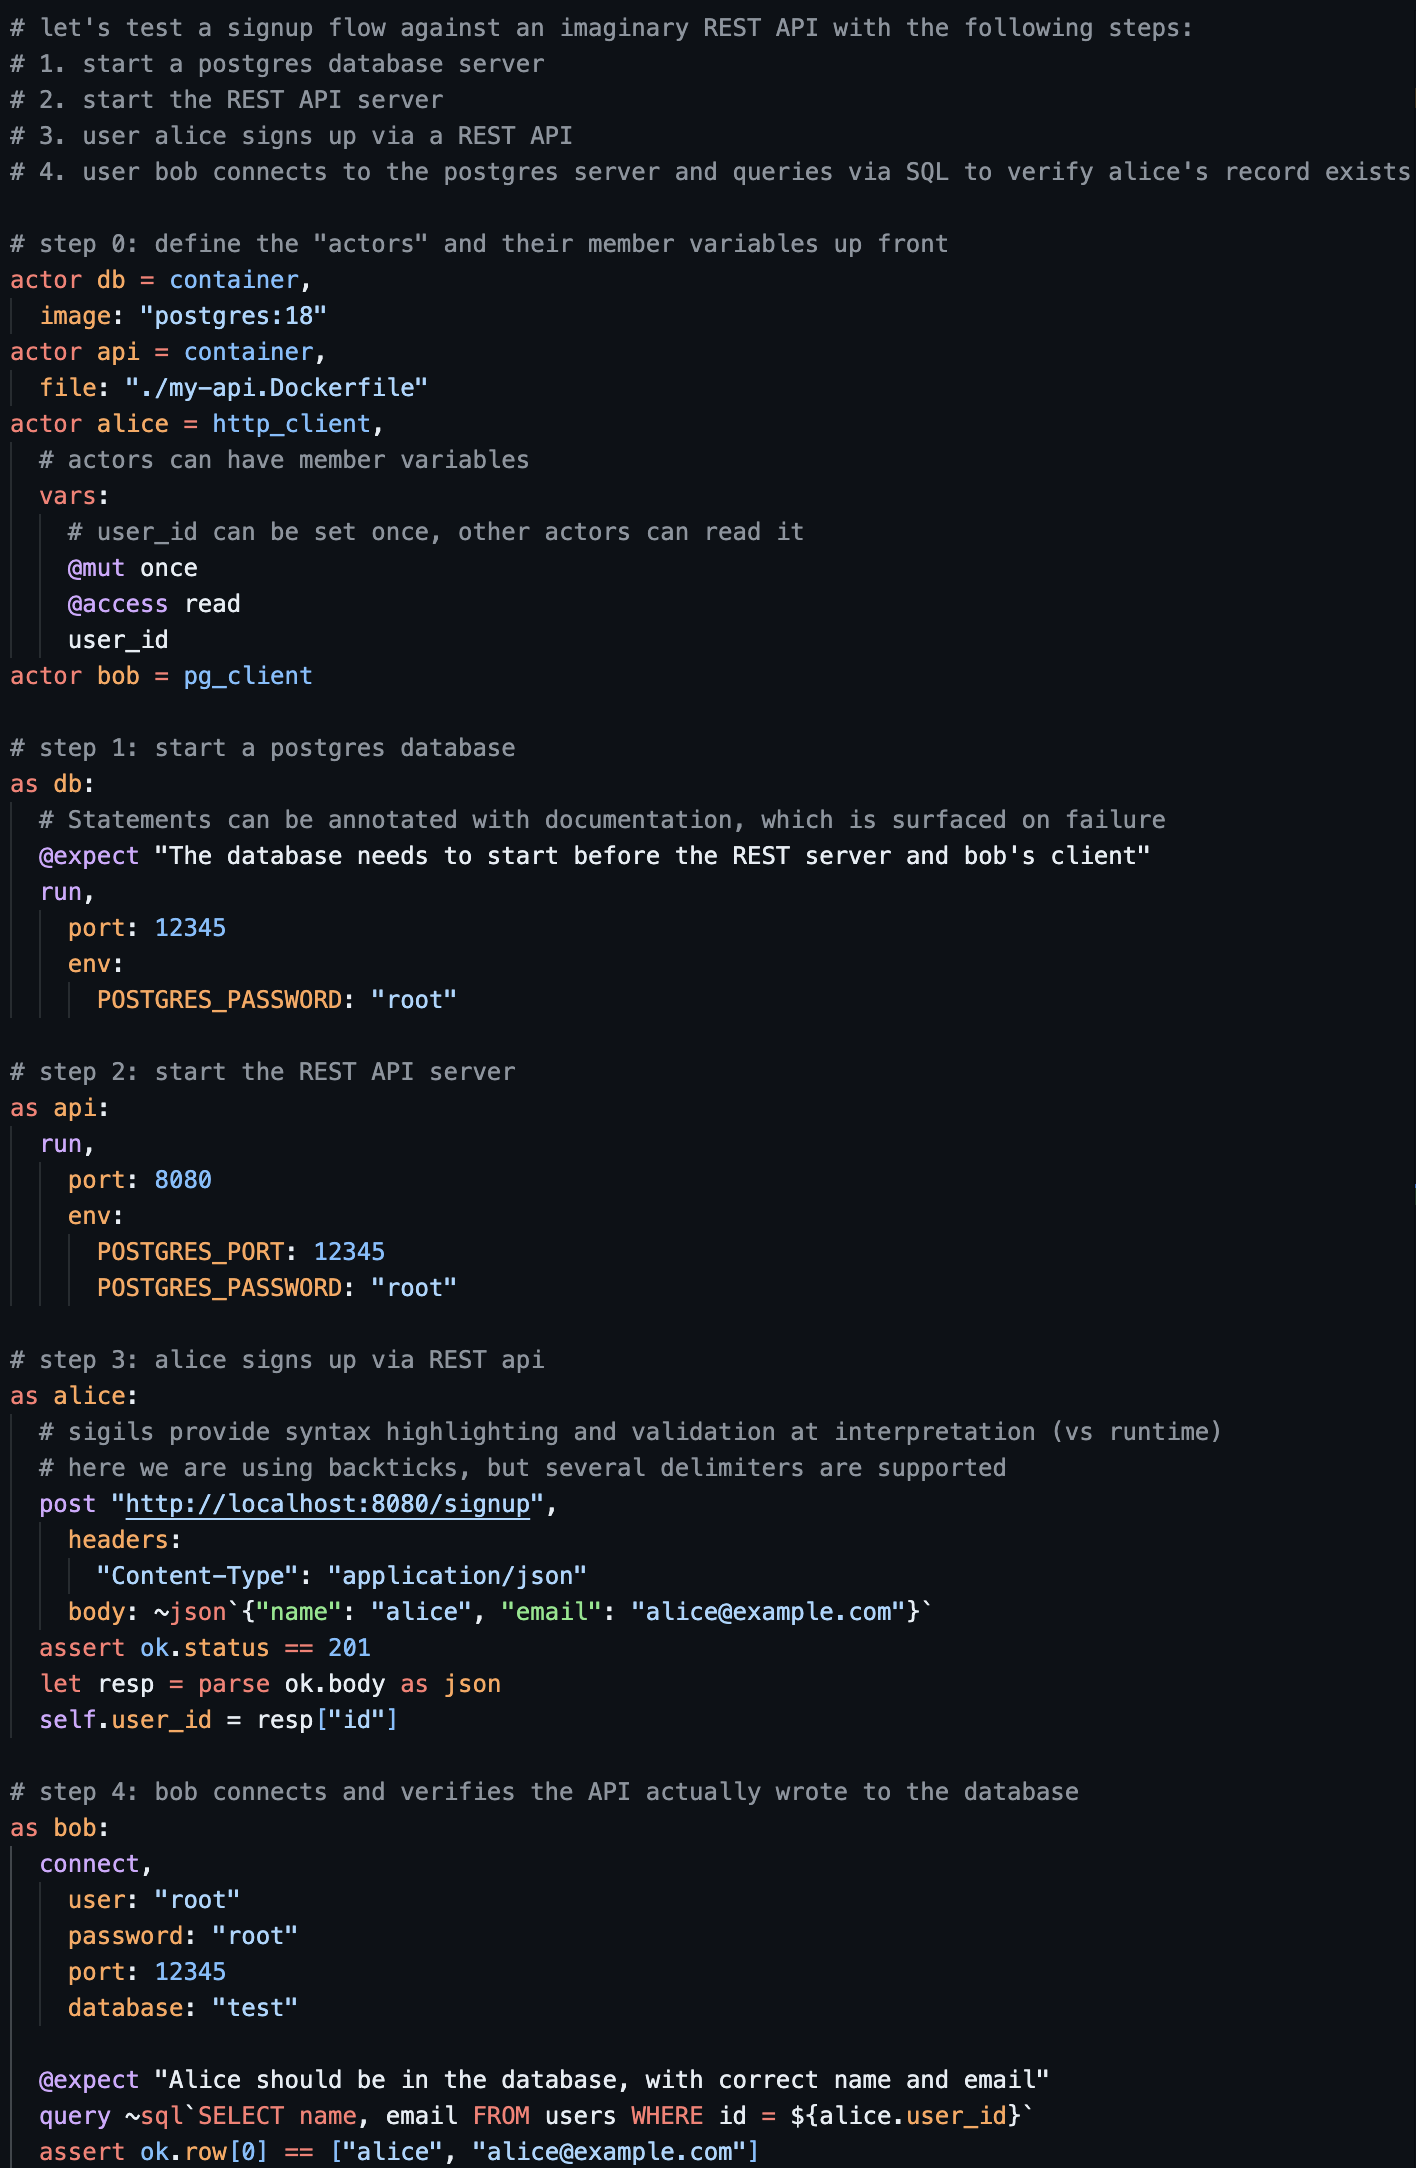
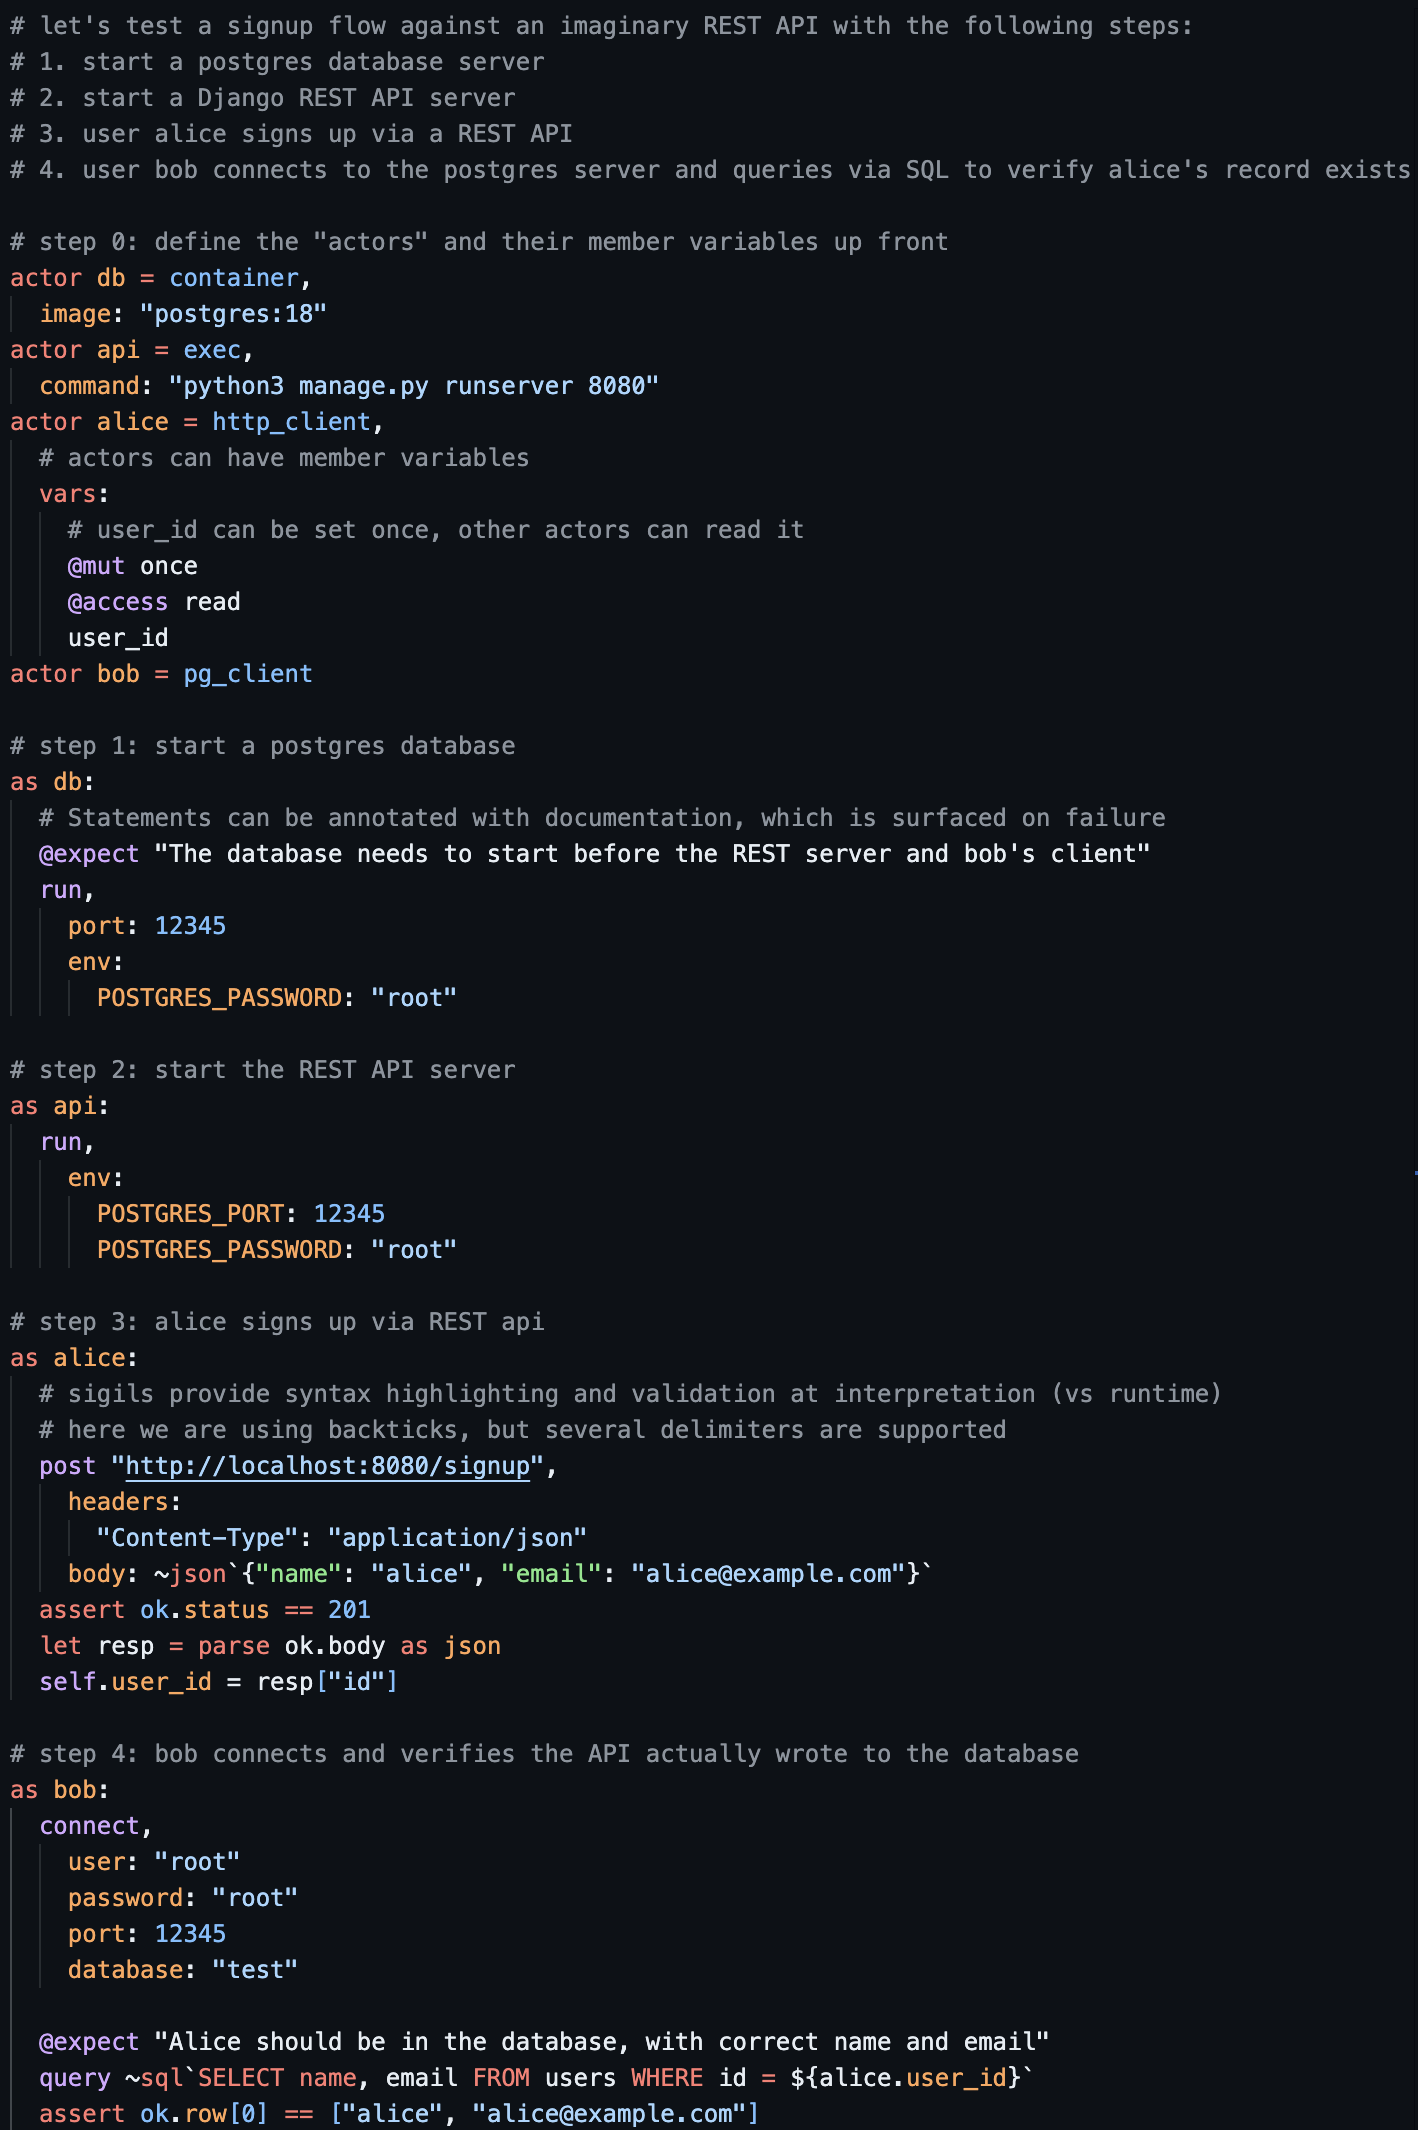
Adds exec actor (#9)

diff --git a/crates/ill-core/src/actor_type/exec/mod.rs b/crates/ill-core/src/actor_type/exec/mod.rs
@@ -1,0 +1,42 @@
+// The `exec` actor type — a process running directly on the host.
+//
+// Intended for long-running things like servers, daemons, and brokers. The
+// `command` is supplied at declaration; `run` starts it and transitions the
+// actor from `stopped` to `running`.
+
+pub mod commands;
+pub mod modes;
+
+use super::{ActorType, Command, KeywordArgDef, Mode, ValueType};
+
+pub struct Exec;
+
+impl ActorType for Exec {
+    fn name(&self) -> &'static str {
+        "exec"
+    }
+
+    fn initial_mode(&self) -> &'static dyn Mode {
+        modes::STOPPED
+    }
+
+    fn modes(&self) -> &'static [&'static dyn Mode] {
+        static MODES: &[&dyn Mode] = &[modes::STOPPED, modes::RUNNING];
+        MODES
+    }
+
+    fn commands(&self) -> &'static [&'static dyn Command] {
+        static COMMANDS: &[&dyn Command] = &[commands::RUN];
+        COMMANDS
+    }
+
+    fn constructor_keyword(&self) -> &'static [KeywordArgDef] {
+        &[KeywordArgDef {
+            name: "command",
+            ty: ValueType::String,
+            required: true,
+        }]
+    }
+}
+
+pub static EXEC: &dyn ActorType = &Exec;

diff --git a/crates/ill-core/src/actor_type/exec/commands.rs b/crates/ill-core/src/actor_type/exec/commands.rs
@@ -1,0 +1,30 @@
+use super::modes::{RUNNING, STOPPED};
+use crate::actor_type::{Command, KeywordArgDef, Mode, ValueType};
+
+pub struct Run;
+
+impl Command for Run {
+    fn name(&self) -> &'static str {
+        "run"
+    }
+
+    fn valid_in_modes(&self) -> &'static [&'static dyn Mode] {
+        static VALID: &[&dyn Mode] = &[STOPPED];
+        VALID
+    }
+
+    fn transitions_to(&self) -> Option<&'static dyn Mode> {
+        Some(RUNNING)
+    }
+
+    fn keyword(&self) -> &'static [KeywordArgDef] {
+        // `env` is a map; Phase 4 only checks the name, not the value shape.
+        &[KeywordArgDef {
+            name: "env",
+            ty: ValueType::Unknown,
+            required: false,
+        }]
+    }
+}
+
+pub static RUN: &dyn Command = &Run;

diff --git a/crates/ill-core/src/registry.rs b/crates/ill-core/src/registry.rs
@@ -11,7 +11,9 @@
 use std::collections::HashMap;
 use std::sync::OnceLock;
 
-use crate::actor_type::{args_actor, container, http_client, mqtt_client, pg_client, ActorType};
+use crate::actor_type::{
+    args_actor, container, exec, http_client, mqtt_client, pg_client, ActorType,
+};
 
 pub struct Registry {
     actors: HashMap<&'static str, &'static dyn ActorType>,
@@ -29,6 +31,7 @@ impl Registry {
         };
         r.register(pg_client::PG_CLIENT);
         r.register(container::CONTAINER);
+        r.register(exec::EXEC);
         r.register(http_client::HTTP_CLIENT);
         r.register(mqtt_client::MQTT_CLIENT);
         r.register(args_actor::ARGS_ACTOR);

diff --git a/crates/ill-core/src/actor_type/exec/modes.rs b/crates/ill-core/src/actor_type/exec/modes.rs
@@ -1,0 +1,25 @@
+use crate::actor_type::Mode;
+
+pub struct Stopped;
+pub struct Running;
+
+impl Mode for Stopped {
+    fn name(&self) -> &'static str {
+        "stopped"
+    }
+    fn actor_type(&self) -> &'static str {
+        "exec"
+    }
+}
+
+impl Mode for Running {
+    fn name(&self) -> &'static str {
+        "running"
+    }
+    fn actor_type(&self) -> &'static str {
+        "exec"
+    }
+}
+
+pub static STOPPED: &dyn Mode = &Stopped;
+pub static RUNNING: &dyn Mode = &Running;

diff --git a/crates/ill/src/main.rs b/crates/ill/src/main.rs
@@ -182,7 +182,11 @@ fn run_check(paths: &[PathBuf]) {
             parts.push(format!("{error_count} {word}"));
         }
         if warning_count > 0 {
-            let word = if warning_count == 1 { "warning" } else { "warnings" };
+            let word = if warning_count == 1 {
+                "warning"
+            } else {
+                "warnings"
+            };
             parts.push(format!("{warning_count} {word}"));
         }
         if info_count > 0 {

diff --git a/crates/ill-core/src/actor_type/mod.rs b/crates/ill-core/src/actor_type/mod.rs
@@ -9,6 +9,7 @@ use std::any::Any;
 
 pub mod args_actor;
 pub mod container;
+pub mod exec;
 pub mod http_client;
 pub mod mqtt_client;
 pub mod pg_client;
